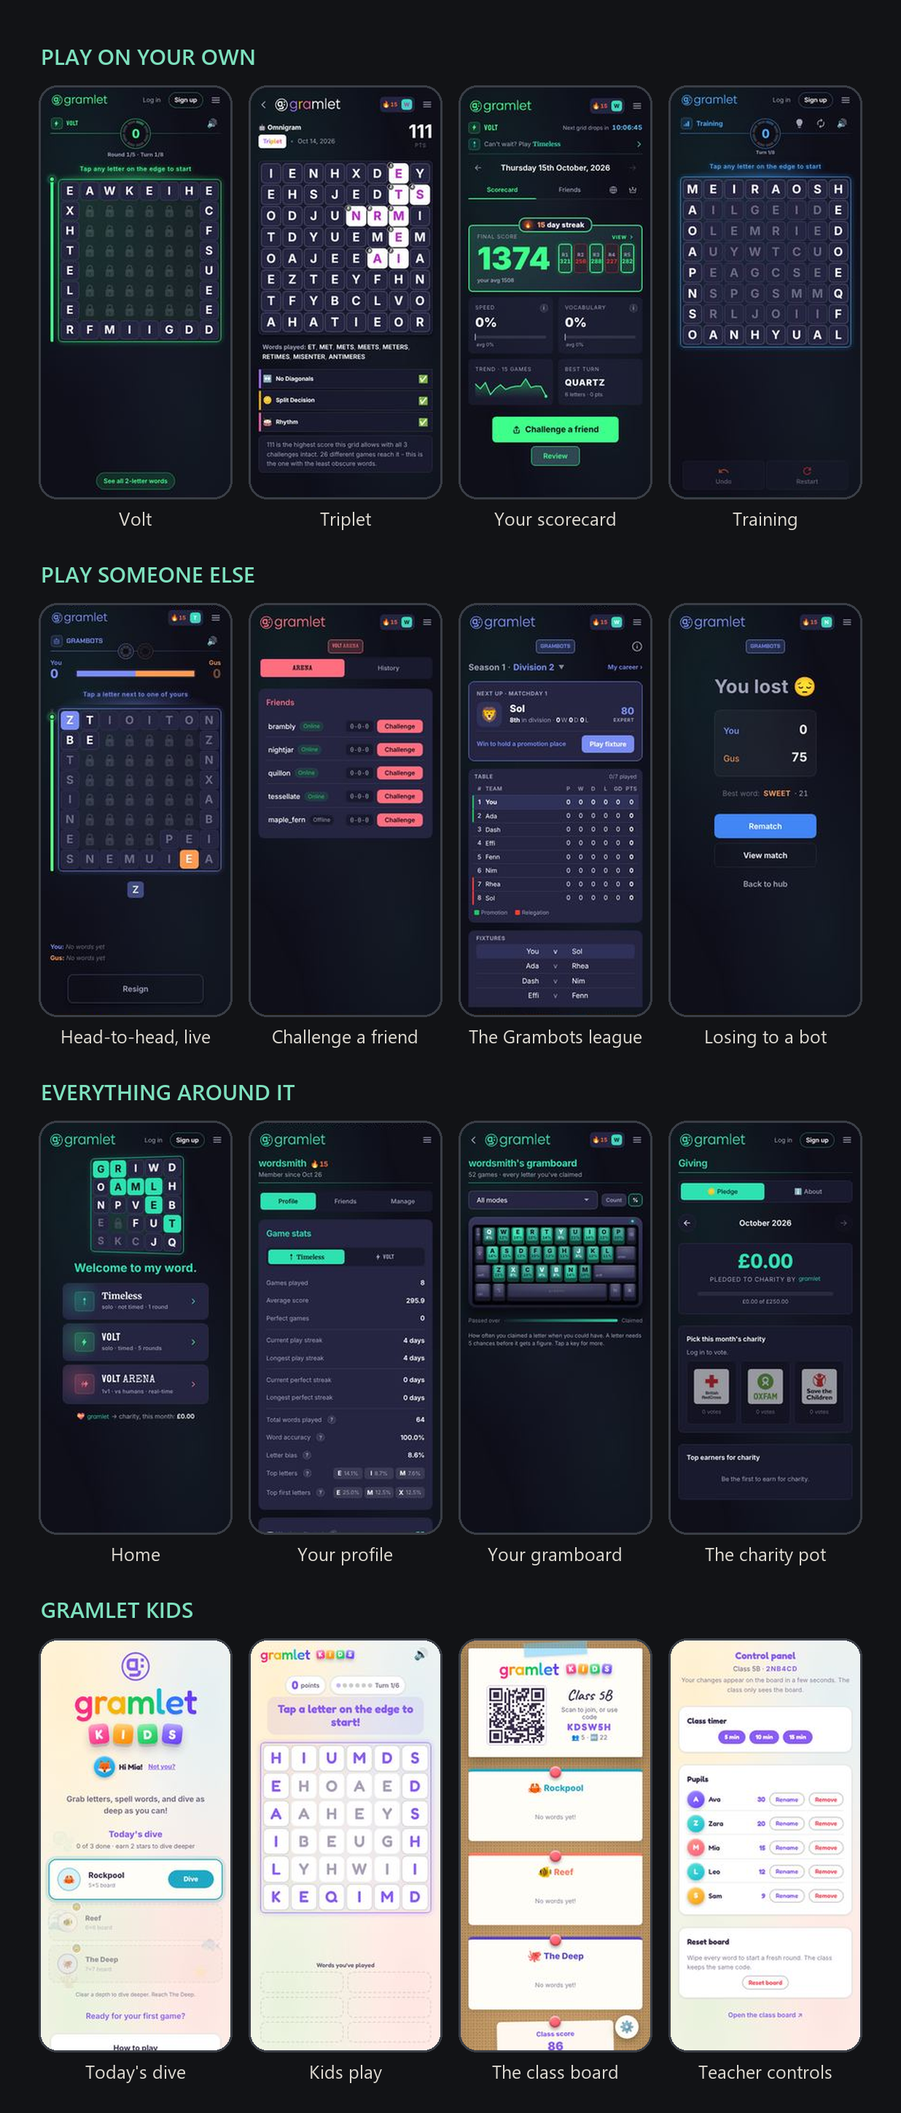
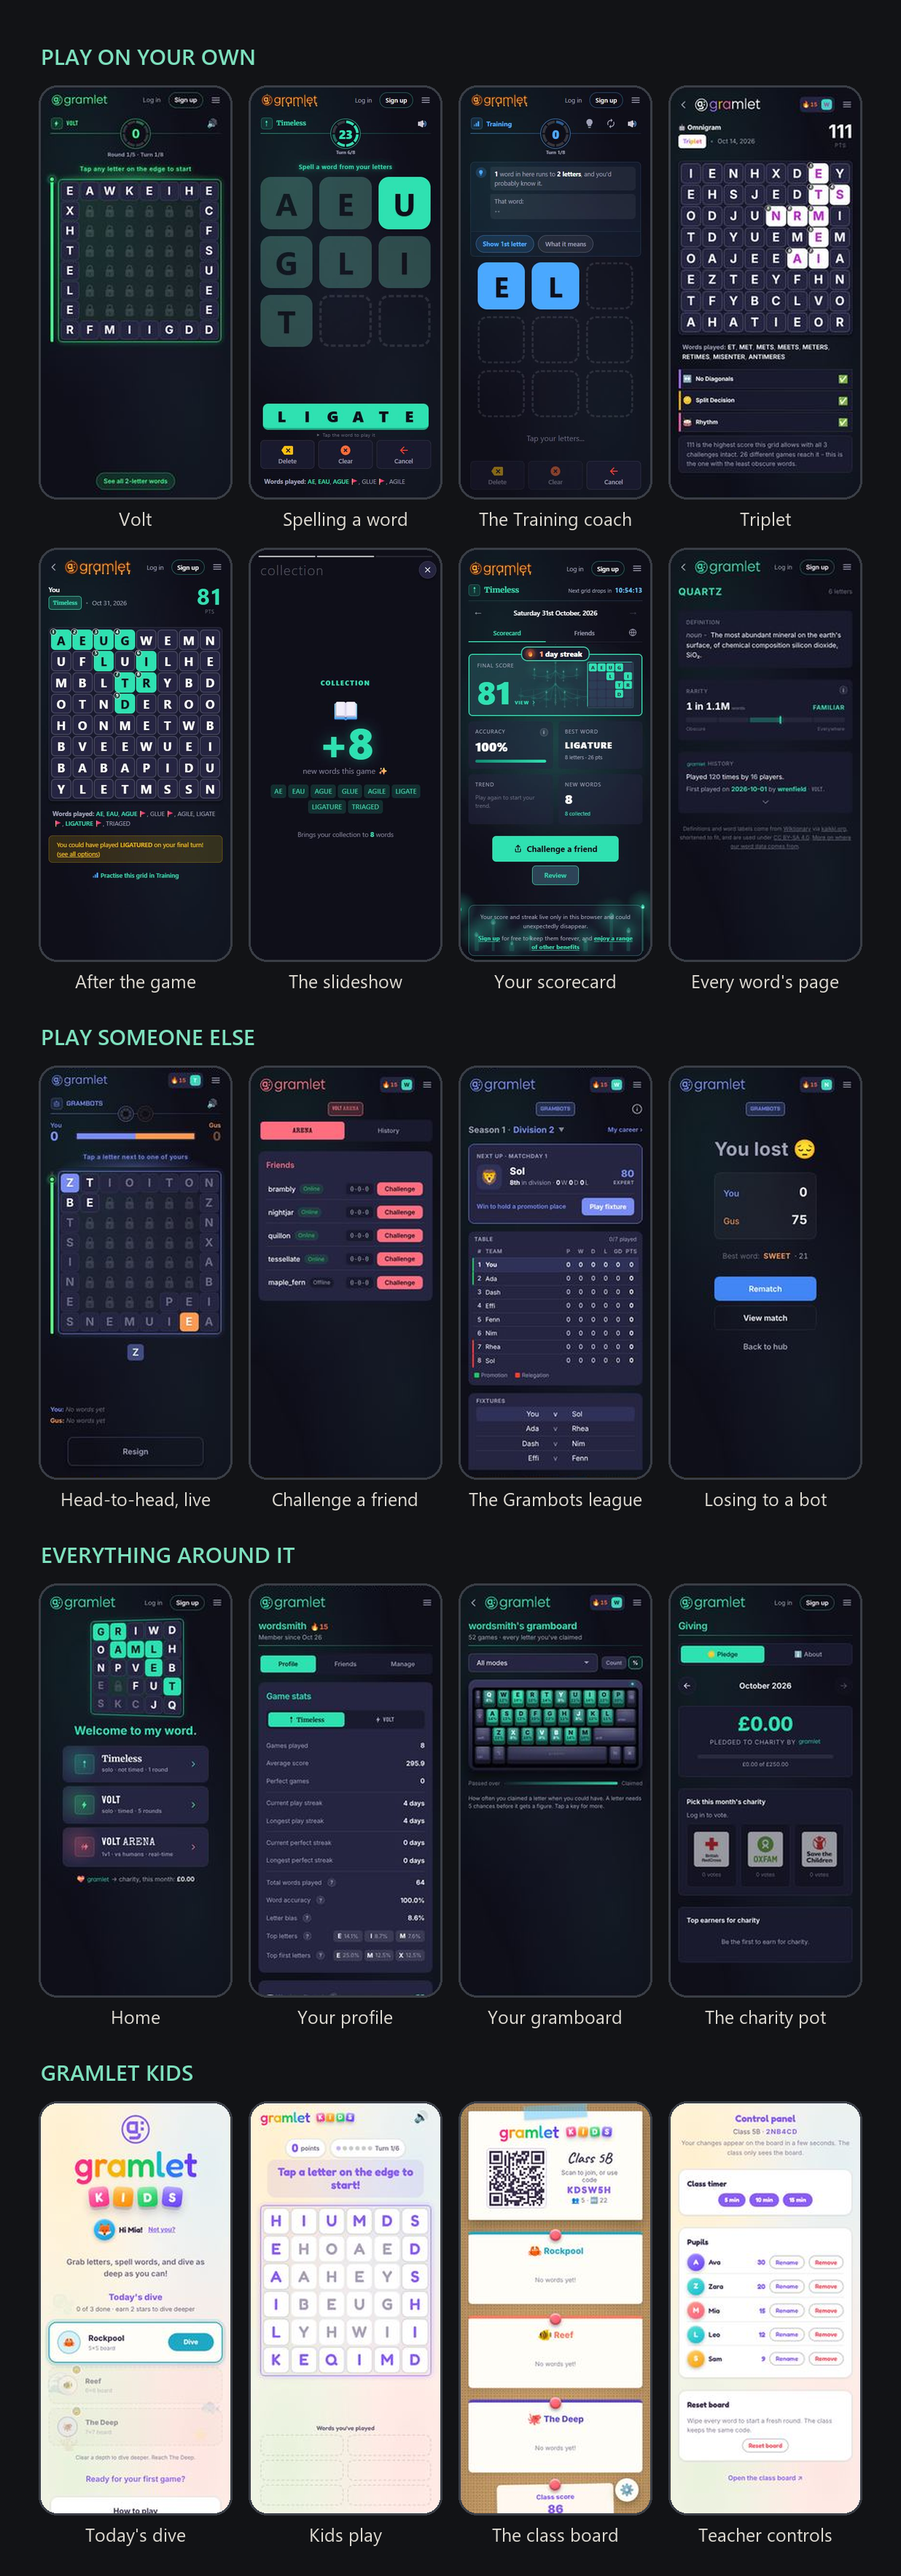
Gramlet draft: widen the solo screens on the scope poster
Adds word entry, the Training coach, the post-game board, a slideshow
slide, the scorecard and a word page, captured from the live site.

diff --git a/src/content/posts/claim-spell-delegate/index.md b/src/content/posts/claim-spell-delegate/index.md
@@ -108,9 +108,9 @@ _31 October 2026 (preview) · Holiday skins: Halloween, as the home page will lo
 })();
 </script>
 
-And that’s just the front door. Behind it, Gramlet now has 50 screens, and here are 16 of them.
+And that’s just the front door. Behind it, Gramlet now has 50 screens, and here are 20 of them.
 
-![Sixteen Gramlet phone screens in four groups. Play on your own: Volt, Triplet, a scorecard and Training. Play someone else: a live head-to-head match, challenging a friend, the Grambots league table and a lost game against a bot. Everything around it: the home page, a profile, the gramboard and the charity pot. Gramlet Kids: today’s dive, a kids’ game, the class board and the teacher’s controls.](./gramlet-map.png)
+![Twenty Gramlet phone screens in four groups. Play on your own: Volt, spelling a word, the Training coach's hint, Triplet, the board after a game with a near-miss nudge, a slideshow slide, the scorecard and a word's own page. Play someone else: a live head-to-head match, challenging a friend, the Grambots league table and a lost game against a bot. Everything around it: the home page, a profile, the gramboard and the charity pot. Gramlet Kids: today’s dive, a kids’ game, the class board and the teacher’s controls.](./gramlet-map.png)
 _Gramlet, as of October_
 
 ### Asking the robot about the robot
